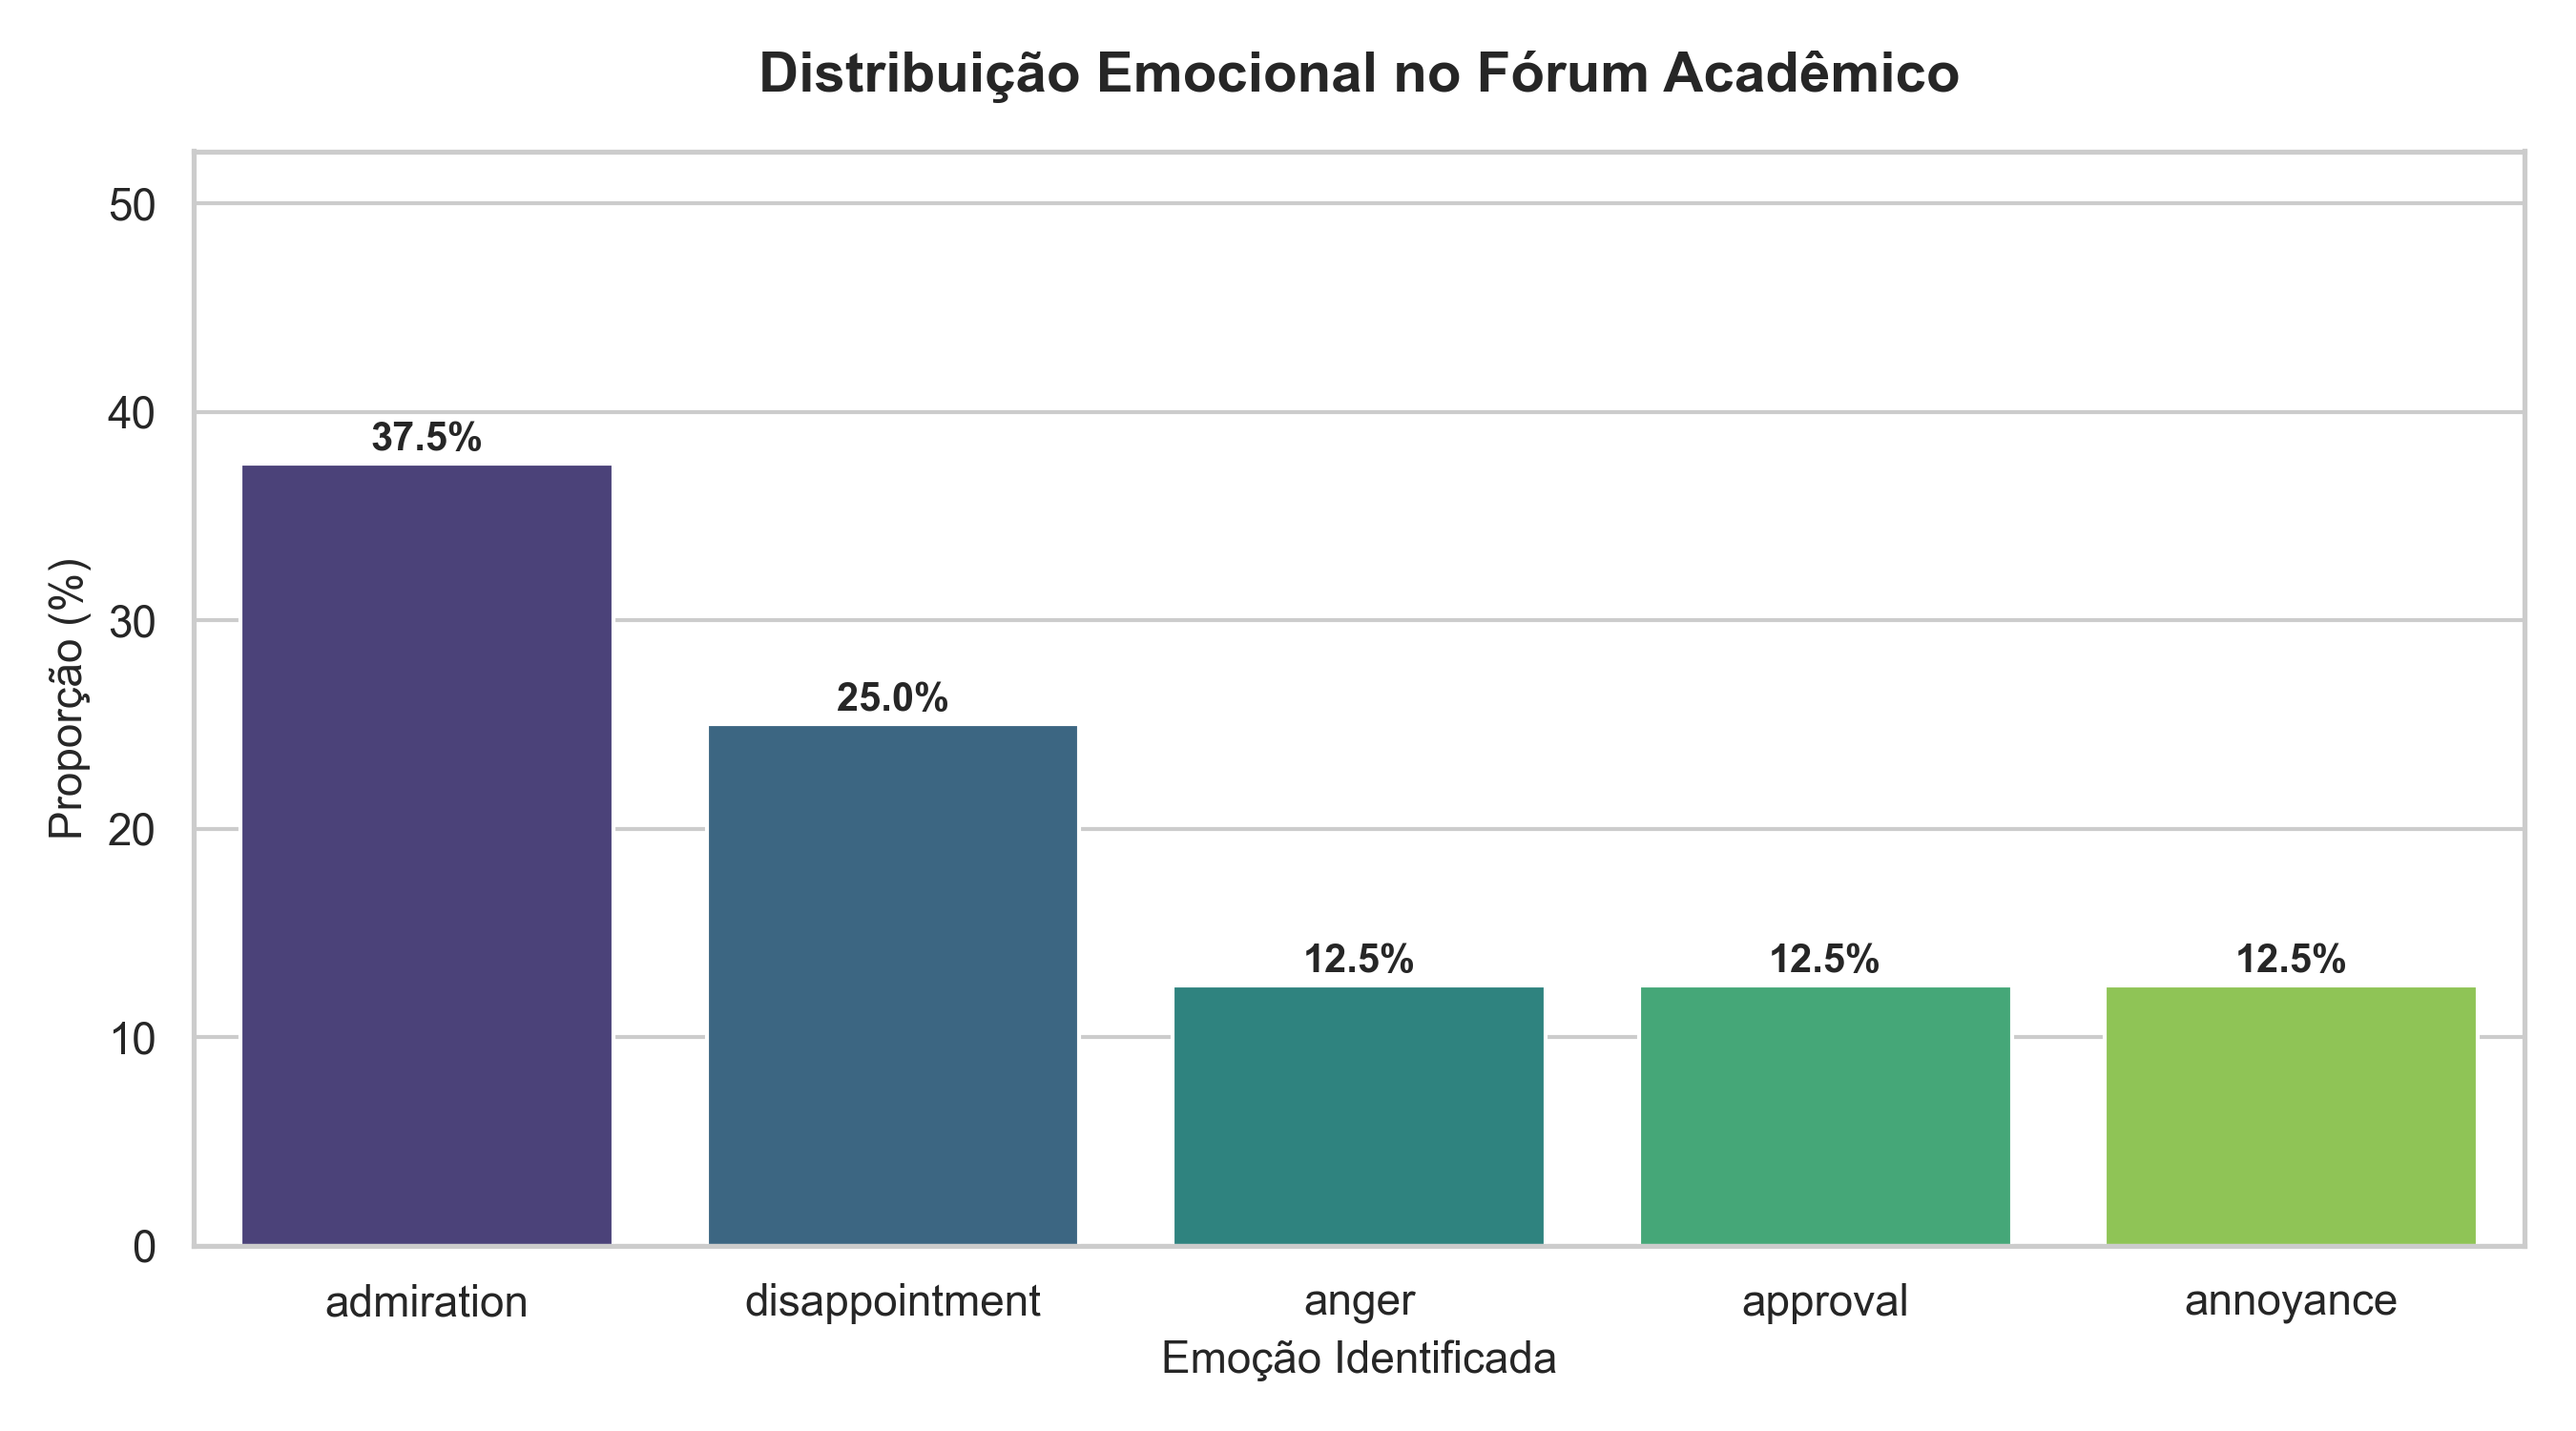
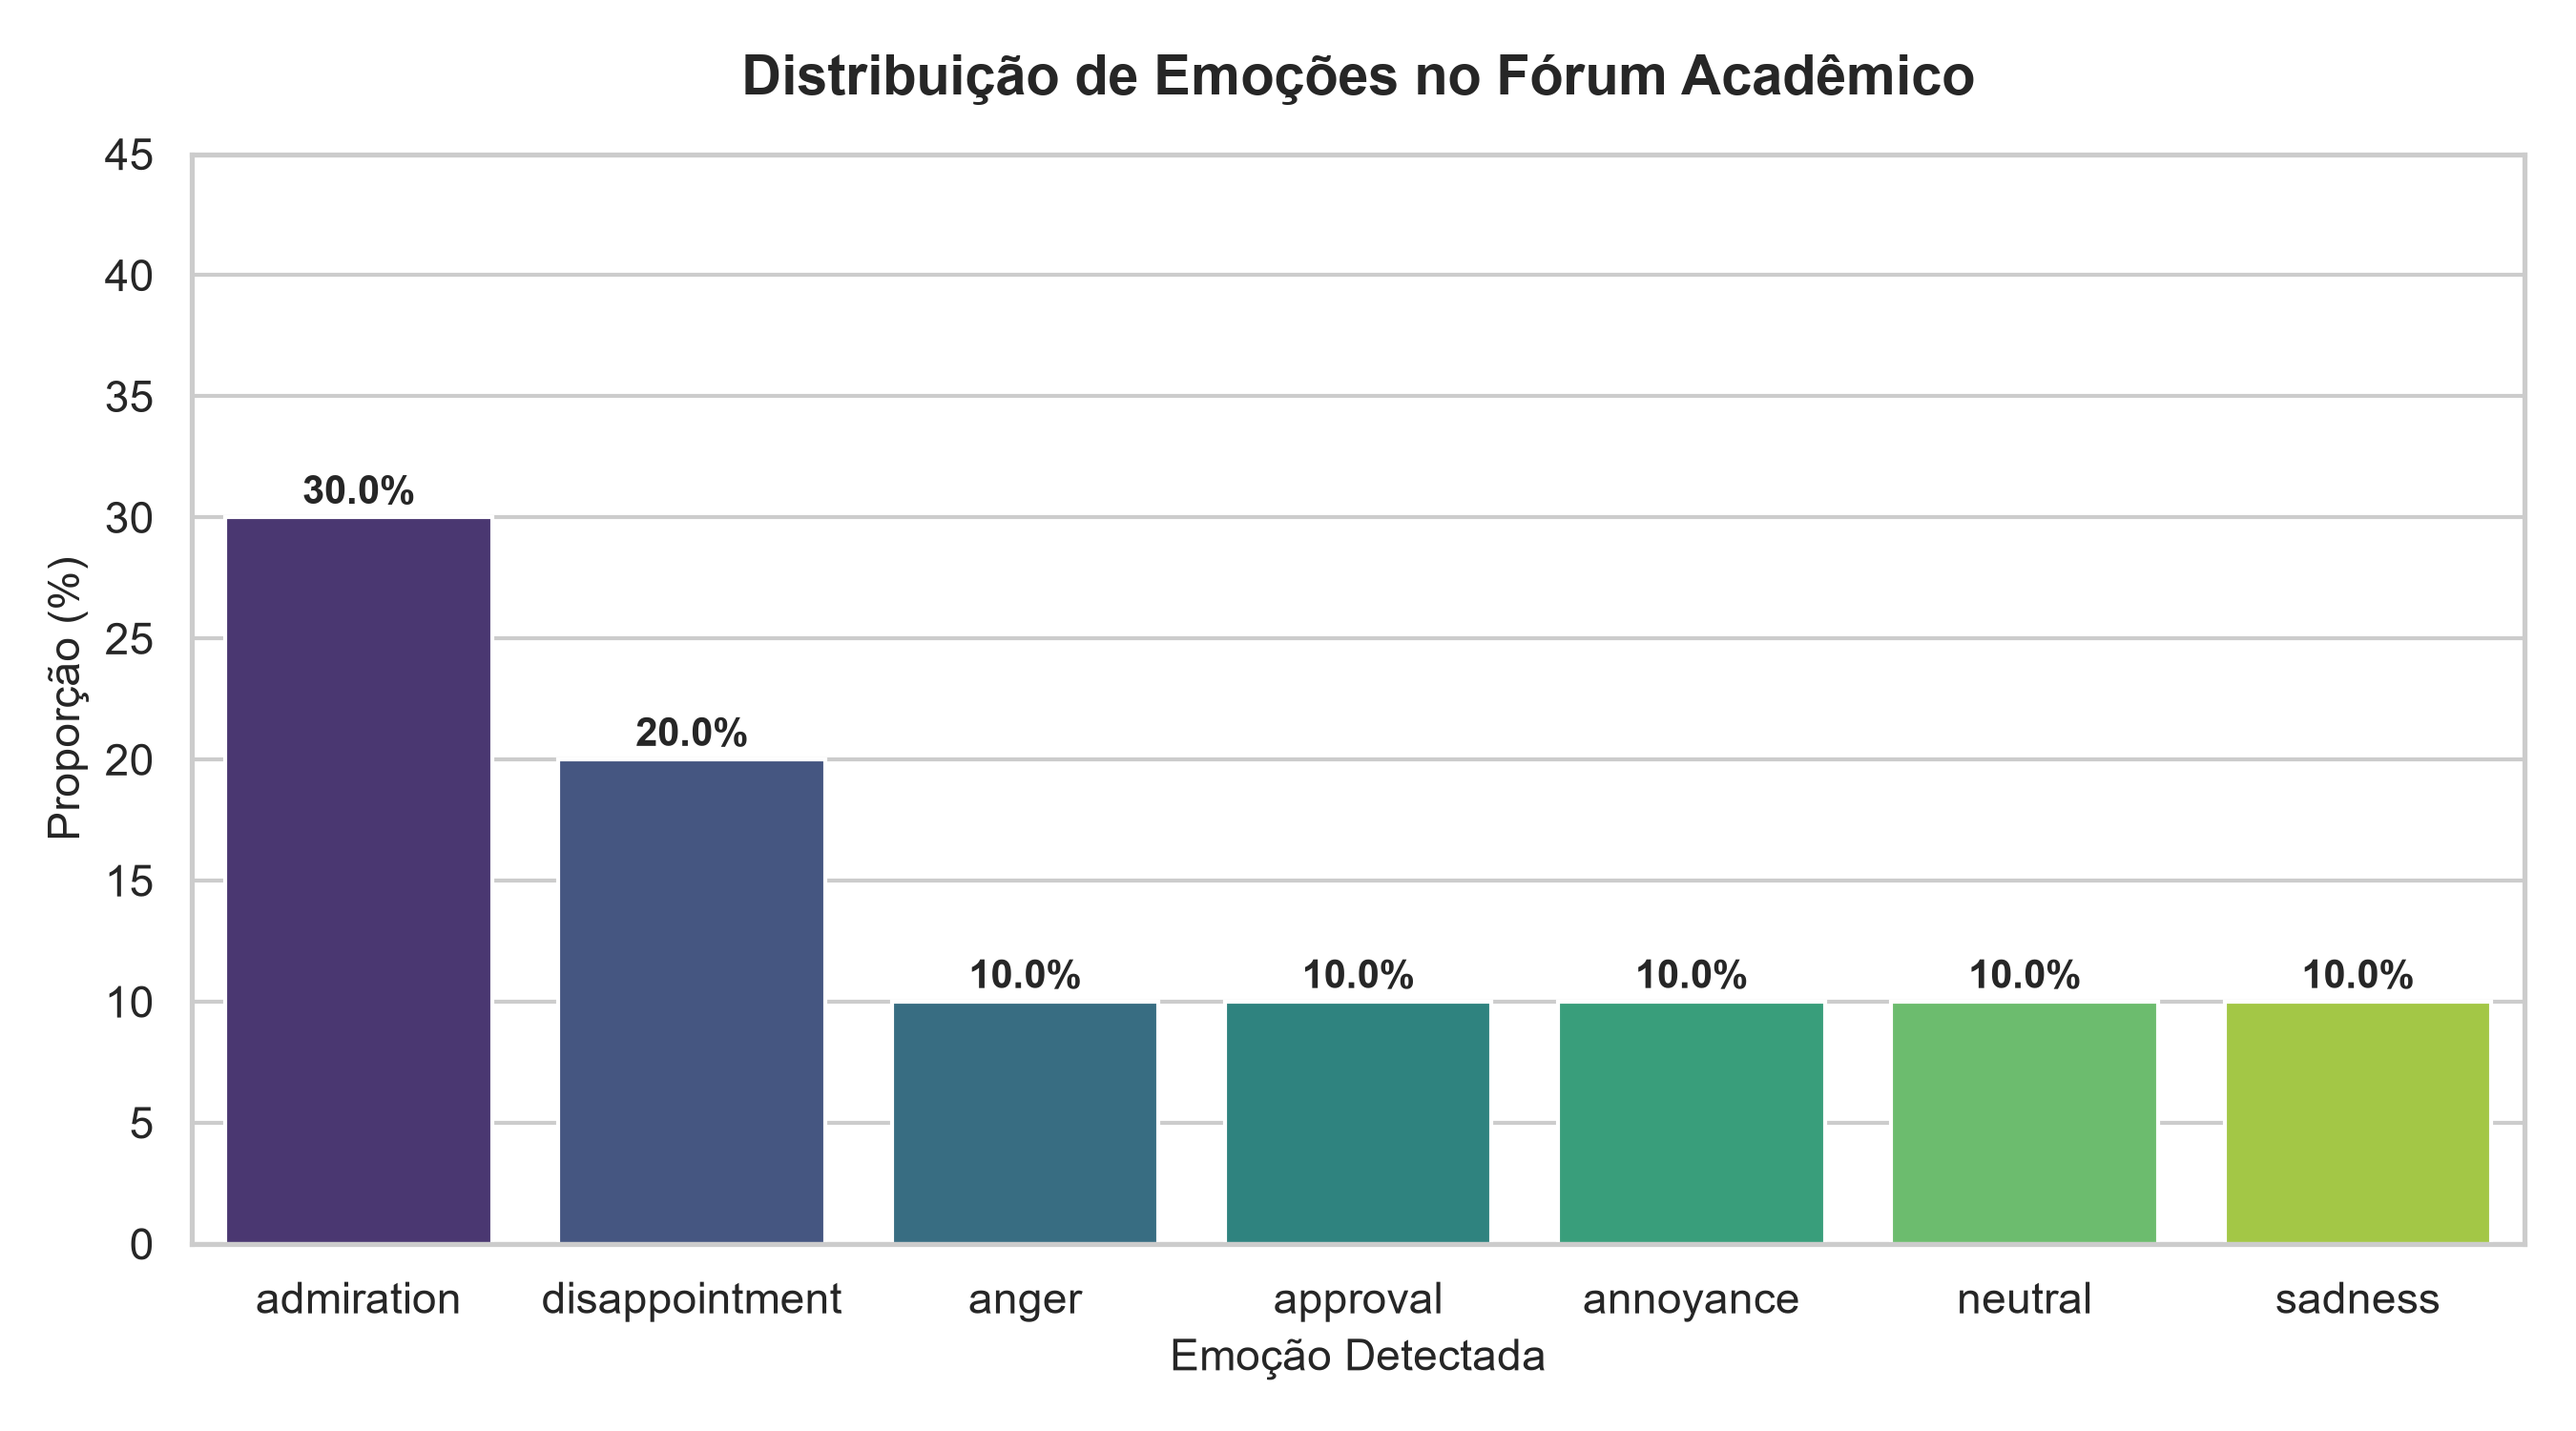
fix: atualiza modelo de emocoes e fluxo de exportacao

diff --git a/analise_forum/emotionClassificator.py b/analise_forum/emotionClassificator.py
@@ -1,58 +1,70 @@
-import pandas as pd
+import os
+import warnings
 import matplotlib.pyplot as plt
+import pandas as pd
 import seaborn as sns
 from transformers import pipeline
-import warnings
 
 warnings.filterwarnings('ignore')
 
-print("Carregando o modelo de IA Afetiva...")
+# Caminhos dos arquivos
+ARQUIVO_ENTRADA = "analise_forum/mensagens_forum.csv"
+ARQUIVO_SAIDA = "analise_forum/resultados_analise.xlsx"
+GRAFICO_SAIDA = "analise_forum/distribuicao_emocoes.png"
+
+# 1. Criar CSV de exemplo caso nao exista
+if not os.path.exists(ARQUIVO_ENTRADA):
+    dados_exemplo = pd.DataFrame({
+        "id_mensagem": range(1, 9),
+        "mensagem": [
+            "O portal acadêmico está fora do ar de novo na hora da entrega, que ódio!",
+            "Achei a discussão do grupo de hoje muito produtiva e esclarecedora.",
+            "Estou completamente perdido com os prazos dessa matéria...",
+            "Finalmente consegui entender a lógica do projeto!",
+            "Muito frustrado com a falta de retorno sobre as dúvidas do trabalho.",
+            "Que notícia excelente! Adiaram a data final do projeto.",
+            "Não sei se vou conseguir entregar tudo, bateu o desespero total.",
+            "Ótima explicação na aula de hoje, me ajudou bastante!"
+        ]
+    })
+    # Garantir que a pasta analise_forum existe
+    os.makedirs("analise_forum", exist_ok=True)
+    dados_exemplo.to_csv(ARQUIVO_ENTRADA, index=False, encoding='utf-8')
+    print(f"[Info] CSV de teste criado em: '{ARQUIVO_ENTRADA}'")
+
+# 2. Carregar o Modelo de IA de EMOÇÕES
+print("Carregando o modelo de IA de Emoções (pysentimiento/robertuito-emotion-pt)...")
 classificador = pipeline(
     "text-classification",
     model="pysentimiento/bert-pt-emotion",
     return_all_scores=False,
 )
 
-mensagens_forum = [
-    "O portal acadêmico está fora do ar de novo na hora da entrega, que ódio!",
-    "Achei a discussão do grupo de hoje muito produtiva e esclarecedora.",
-    "Estou completamente perdido com os prazos dessa matéria...",
-    "Finalmente consegui entender a lógica do projeto!",
-    "Muito frustrado com a falta de retorno sobre as dúvidas do trabalho.",
-    "Que notícia excelente! Adiaram a data final do projeto.",
-    "Não sei se vou conseguir entregar tudo, bateu o desespero total.",
-    "Ótima explicação na aula de hoje, me ajudou bastante!"
-]
+# 3. Leitura dos dados do CSV
+print(f"Lendo mensagens de '{ARQUIVO_ENTRADA}'...")
+df_dados = pd.read_csv(ARQUIVO_ENTRADA)
 
-resultados = []
-for texto in mensagens_forum:
-    predicao = classificador(texto)[0]
-    resultados.append({
-        "Mensagem": texto,
-        "Emocao": predicao["label"],
-        "Confianca": predicao["score"]
-    })
+# 4. Processamento em lote
+mensagens = df_dados['mensagem'].tolist()
+predicoes = classificador(mensagens)
 
-df = pd.DataFrame(resultados)
+df_dados['Emocao'] = [p['label'] for p in predicoes]
+df_dados['Confianca'] = [round(p['score'], 4) for p in predicoes]
 
-# 1. TABELA 1: Detalhada por mensagem
-print("\n" + "="*60)
-print(" TABELA DE ANALISE POR MENSAGEM ")
-print("="*60)
-print(df[["Mensagem", "Emocao"]].to_string(index=False))
-
-# 2. TABELA 2: Resumo Percentual
-resumo_emocoes = df['Emocao'].value_counts(normalize=True) * 100
-df_resumo = resumo_emocoes.reset_index()
+# 5. Tabela de Resumo Percentual de Emoções
+resumo = df_dados['Emocao'].value_counts(normalize=True) * 100
+df_resumo = resumo.reset_index()
 df_resumo.columns = ['Emocao', 'Porcentagem (%)']
 df_resumo['Porcentagem (%)'] = df_resumo['Porcentagem (%)'].round(1)
 
-print("\n" + "="*40)
-print(" DISTRIBUICAO PERCENTUAL ")
-print("="*40)
-print(df_resumo.to_string(index=False))
+# 6. Salvar em Excel com duas abas (Detalhado + Resumo)
+with pd.ExcelWriter(ARQUIVO_SAIDA, engine='openpyxl') as writer:
+    df_dados.to_excel(writer, sheet_name='Analise_Detalhada', index=False)
+    df_resumo.to_excel(writer, sheet_name='Resumo_Percentual', index=False)
 
-# 3. GERAÇÃO DO GRÁFICO
+print(f"[Sucesso] Relatório Excel gerado em: '{ARQUIVO_SAIDA}'")
+
+# 7. Gerar e salvar gráfico de barras
 plt.figure(figsize=(9, 5))
 sns.set_theme(style="whitegrid")
 
@@ -63,8 +75,8 @@ ax = sns.barplot(
     palette='viridis'
 )
 
-plt.title('Distribuição Emocional no Fórum Acadêmico', fontsize=14, fontweight='bold', pad=15)
-plt.xlabel('Emoção Identificada', fontsize=11)
+plt.title('Distribuição de Emoções no Fórum Acadêmico', fontsize=14, fontweight='bold', pad=15)
+plt.xlabel('Emoção Detectada', fontsize=11)
 plt.ylabel('Proporção (%)', fontsize=11)
 plt.ylim(0, max(df_resumo['Porcentagem (%)']) + 15)
 
@@ -79,7 +91,5 @@ for p in ax.patches:
                     fontsize=10, fontweight='bold')
 
 plt.tight_layout()
-plt.savefig('distribuicao_emocoes.png', dpi=300)
-print("\n[Sucesso] Imagem do gráfico salva como 'distribuicao_emocoes.png'!")
-
-plt.show()
+plt.savefig(GRAFICO_SAIDA, dpi=300)
+print(f"[Sucesso] Gráfico atualizado em: '{GRAFICO_SAIDA}'")
